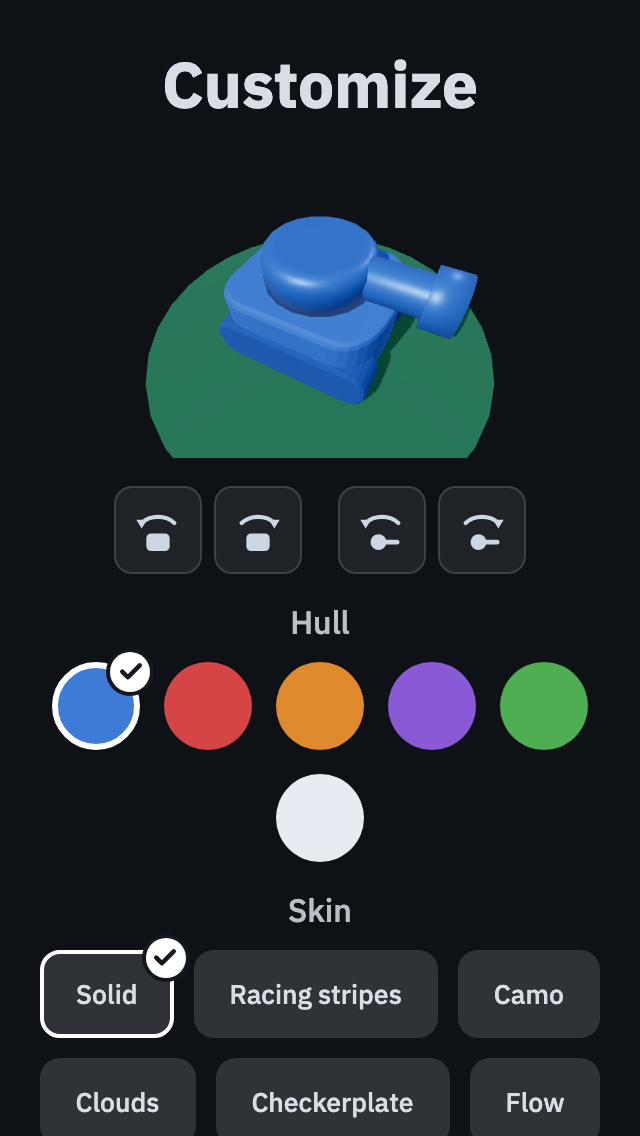
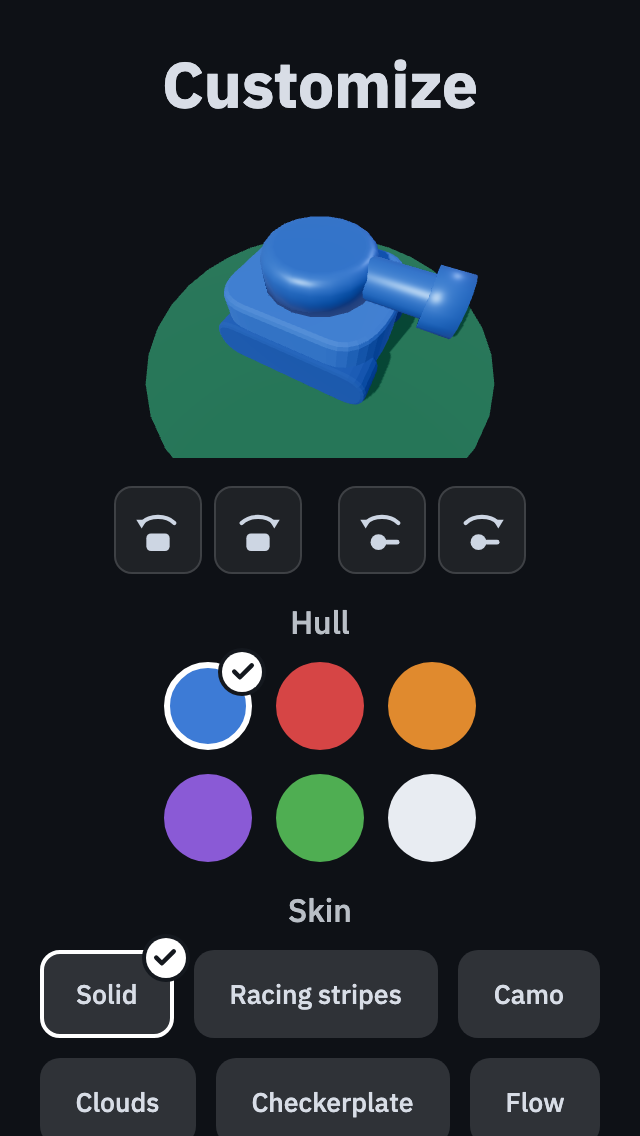
Re-capture issue-327 evidence for the even-row swatch split

Changed region(s): [[0.0625, 0.5546, 0.75, 0.7702], [0.7812, 0.5854, 0.9375, 0.6778]]

diff --git a/issue-327/README.md b/issue-327/README.md
@@ -9,8 +9,9 @@ Customize pane needed both axes, and one of them could not be panned.
 
 | | before | after |
 | --- | ---: | ---: |
-| `.hud-swatches` width | 324 | 320 |
-| row x / right | −2 / 322 | 0 / 320 |
+| `.hud-swatches` width | 324 | 156 |
+| row x / right | −2 / 322 | 82 / 238 |
+| swatch rows | **1 (clipped)** | **3 + 3** |
 | swatches clipped | **1 left, 1 right** | 0 |
 | `.hud-customize` clientW / scrollW | 320 / **322** | 320 / 320 |
 
@@ -19,10 +20,40 @@ across** — the two clipped swatches were not reachable by any gesture.
 
 - `customize-320-before.png` — the selected blue swatch is sliced by the left edge, its check
   badge cut off, and the white swatch by the right edge.
-- `customize-320-after.png` — all six visible, the sixth wrapped to a centred second row.
+- `customize-320-after.png` — all six visible, as two centred rows of three.
 
 Captured through the real `screen.customize` screen state at 320×568 against production builds
 of `main` and the fix.
+
+## Even rows, not five and a stranded one
+
+Wrapping alone stopped the overflow but left **5 + 1** — five swatches on the line and the sixth
+by itself, which reads as a rendering fault rather than a layout. A second rule caps the row at
+three columns on the widths where that happens.
+
+The breakpoint is measured, not chosen. With the cap defeated, on the real build:
+
+| viewport | swatch rows |
+| ---: | :--- |
+| 322px | 5 + 1 |
+| 323px | 5 + 1 |
+| **324px** | **6 — one line** |
+| 325px | 6 — one line |
+
+A swatch is `--hud-control-min` (44px) at a `--hud-space-4` (12px) gap, so six are
+6×44 + 5×12 = **324px** and three are 3×44 + 2×12 = **156px**. `@media (max-width: 323px)` is
+therefore exactly "narrower than one line needs": it reaches every width that would strand a
+swatch and no width that would not. Verified at 320, 340, 341, 360 and 1280 — only 320 wraps.
+
+**`.hud-accents` is deliberately excluded**, and that is a correction rather than an omission.
+The first draft capped it alongside the swatches; measuring showed five accents are
+5×44 + 4×12 = **268px**, which already fits a 320px line intact, so the cap was breaking a clean
+row of five into 3 + 2 while rescuing nothing. The mutation entry
+`customize-accents-wrongly-capped` restores that mistake and is killed.
+
+`.hud-skins` still ends 3 + 3 + 1 at this width. Those are text buttons of varying width rather
+than fixed circles, so the column arithmetic above does not describe them; it is not addressed
+here.
 
 ## Why the gate did not catch it
 
